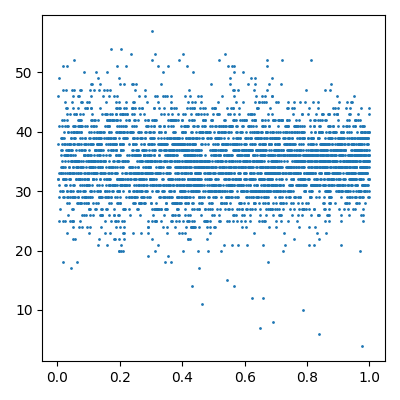
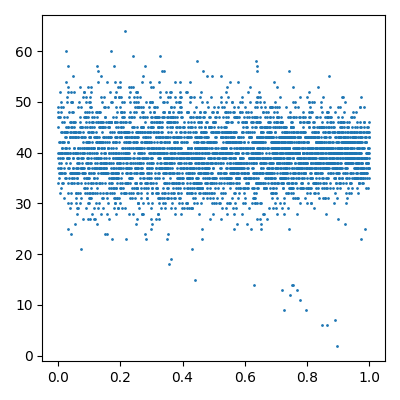
scale down recurrent cons more, fix memory leak, increase nums incoming cons per cell, broaden line attractor, and increase upper bound on silent cell FR

diff --git a/paper_figures_21_05_05/paper_figs_circa_21_10/multiple_parametric_21_09_28/single_cell_silent_dist_ordered_21_11_09/run.py b/paper_figures_21_05_05/paper_figs_circa_21_10/multiple_parametric_21_09_28/single_cell_silent_dist_ordered_21_11_09/run.py
@@ -14,6 +14,7 @@ from scipy.sparse import csc_matrix, csr_matrix, kron
 from functools import reduce, partial
 import argparse
 import time
+import tracemalloc
 
 from aux import *
 from disp import *
@@ -80,7 +81,7 @@ M = Generic(
     I_EXT_B=0,  # additional baseline current input
 
     # Connection probabilities
-    MEAN_N_CONS_PER_CELL=35,
+    MEAN_N_CONS_PER_CELL=40,
     SYN_PROP_DIST_EXP=args.synfire_prop_dist[0],
     CON_PROB_FF_CONST=1,
     CON_PROB_R=0.,
@@ -92,8 +93,8 @@ M = Generic(
     W_E_I_R_MAX=10e-5,
     W_I_E_R=0.32e-5,
     W_A=0,
-    W_E_E_R=0.26 * 0.004 * 1.3,
-    W_E_E_R_MAX=0.26 * 0.004 * 10 * 1.3,
+    W_E_E_R=0.26 * 0.004 * 1.0,
+    W_E_E_R_MAX=0.26 * 0.004 * 10 * 1.0,
 
     # Dropout params
     DROPOUT_MIN_IDX=0,
@@ -109,6 +110,7 @@ M = Generic(
     SINGLE_CELL_FR_SETPOINT_MIN=10,
     SINGLE_CELL_FR_SETPOINT_MIN_STD=2,
     SINGLE_CELL_LINE_ATTR=args.fr_single_line_attr[0],
+    SINGLE_CELL_LINE_ATTR_WIDTH=6,
     ETA=0.3,
     ALPHA_1=args.alpha_1[0], #3e-2
     ALPHA_2=args.alpha_2[0],
@@ -121,7 +123,7 @@ np.random.seed(S.RNG_SEED)
 
 M.CON_PROBS_FF = np.exp(-1 * np.arange(M.N_EXC / M.PROJECTION_NUM) / M.CON_PROB_FF_CONST)
 
-M.W_U_E = M.W_E_E_R / M.PROJECTION_NUM * 3
+M.W_U_E = M.W_E_E_R / M.PROJECTION_NUM * 3.5
 
 M.CUT_IDX_TAU_PAIR = int(2 * M.TAU_STDP_PAIR / S.DT)
 M.KERNEL_PAIR = np.exp(-np.arange(M.CUT_IDX_TAU_PAIR) * S.DT / M.TAU_STDP_PAIR).astype(float)
@@ -168,8 +170,11 @@ def generate_exc_ff_chain(m):
         gamma = m.MEAN_N_CONS_PER_CELL * synfire_proportion / (m.PROJECTION_NUM * (1 - np.exp(-10/m.CON_PROB_FF_CONST))/(1 - np.exp(-1/m.CON_PROB_FF_CONST)))
 
         ### Calculate scaling coef for synapses based on 'synfire_proportion'
-        min_weight_scaling_coef = 0.3
+        min_weight_scaling_coef = 0.05
         weight_scaling_coef = (1 - min_weight_scaling_coef) * synfire_proportion + min_weight_scaling_coef
+
+        # if synfire_proportion > 0.98:
+        #     print(synfire_proportion, gamma * M.CON_PROBS_FF[0])
 
         for i, l_idx in enumerate(reversed(range(layer_idx))):
             cons_for_cell[0, (l_idx * m.PROJECTION_NUM) : ((l_idx + 1) * m.PROJECTION_NUM)] = gaussian_if_under_val(gamma * M.CON_PROBS_FF[i], (1, m.PROJECTION_NUM), weight_scaling_coef * w, 0.2 * w)
@@ -255,7 +260,7 @@ def run_test(m, output_dir_name, show_connectivity=True, repeats=1, n_show_only=
 
         np.fill_diagonal(w_e_e_r, 0.)
 
-        min_weight_scaling_coef = 0.3
+        min_weight_scaling_coef = 0.05
         weight_scaling_coefs = (1 - min_weight_scaling_coef) * syn_props + min_weight_scaling_coef
 
         e_i_r = np.stack([gaussian_if_under_val(m.E_I_CON_PROB, (m.N_INH,), w_scale * m.W_E_I_R, 0.2 * m.W_E_I_R) for w_scale in weight_scaling_coefs]).T
@@ -302,8 +307,6 @@ def run_test(m, output_dir_name, show_connectivity=True, repeats=1, n_show_only=
     # run simulation for same set of parameters
     for rp_idx in range(repeats):
         show_trial = (type(n_show_only) is int and rp_idx < n_show_only)
-
-        rsps_for_trial = []
         
         for d_idx, dropout in enumerate(dropouts):
 
@@ -319,6 +322,11 @@ def run_test(m, output_dir_name, show_connectivity=True, repeats=1, n_show_only=
             i_cell_sample_idxs = np.sort((np.random.rand(10) * m.N_INH + m.N_EXC).astype(int))
 
             w_r_copy = copy(w_r)
+
+            # tracemalloc.start()
+
+            # snapshot = None
+            # last_snapshot = tracemalloc.take_snapshot()
 
             for i_e in range(epochs):
 
@@ -400,8 +408,8 @@ def run_test(m, output_dir_name, show_connectivity=True, repeats=1, n_show_only=
                 # ax.plot(b, f/2, color='black', lw=2)
                 # fig.savefig('inh_volt_dists.png')
 
-                sampled_e_cell_rasters.append(rsp.spks[int((m.INPUT_DELAY + 20e-3)/S.DT):, e_cell_sample_idxs])
-                sampled_i_cell_rasters.append(rsp.spks[int((m.INPUT_DELAY + 20e-3)/S.DT):, i_cell_sample_idxs])
+                sampled_e_cell_rasters.append(rsp.spks[int((m.INPUT_DELAY)/S.DT):, e_cell_sample_idxs])
+                sampled_i_cell_rasters.append(rsp.spks[int((m.INPUT_DELAY)/S.DT):, i_cell_sample_idxs])
 
                 sampled_trial_number = 10
                 if i_e % sampled_trial_number == 0 and i_e != 0:
@@ -567,6 +575,7 @@ def run_test(m, output_dir_name, show_connectivity=True, repeats=1, n_show_only=
                             e_cell_fr_setpoints += np.sum(spks_for_e_cells > 0, axis=0)
                     elif i_e == m.E_SINGLE_FR_TRIALS[1]:
                         e_cell_fr_setpoints = e_cell_fr_setpoints / (m.E_SINGLE_FR_TRIALS[1] - m.E_SINGLE_FR_TRIALS[0])
+                        e_cell_fr_setpoints[e_cell_fr_setpoints < (m.SINGLE_CELL_LINE_ATTR_WIDTH/2) ] = m.SINGLE_CELL_LINE_ATTR_WIDTH/2
                         where_fr_is_0 = (e_cell_fr_setpoints == 0)
                         if m.SINGLE_CELL_LINE_ATTR == 2:
                             e_cell_fr_setpoints[where_fr_is_0] = np.random.normal   (
@@ -577,7 +586,7 @@ def run_test(m, output_dir_name, show_connectivity=True, repeats=1, n_show_only=
                     elif i_e > m.E_SINGLE_FR_TRIALS[1]:
                         e_diffs = e_cell_fr_setpoints - np.sum(spks_for_e_cells > 0, axis=0)
                         if m.SINGLE_CELL_LINE_ATTR == 1:
-                            e_diffs[(e_diffs <= 2) & (e_diffs >= -2)] = 0
+                            e_diffs[(e_diffs <= (m.SINGLE_CELL_LINE_ATTR_WIDTH/2)) & (e_diffs >= (-1 * m.SINGLE_CELL_LINE_ATTR_WIDTH/2))] = 0
                         elif m.SINGLE_CELL_LINE_ATTR == 2:
                             e_diffs[e_diffs > 0] = 0
                         fr_update_e = e_diffs.reshape(e_diffs.shape[0], 1) * np.ones((m.N_EXC + m.N_SILENT, m.N_EXC + m.N_SILENT)).astype(float)
@@ -698,6 +707,15 @@ def run_test(m, output_dir_name, show_connectivity=True, repeats=1, n_show_only=
                 secs_per_cycle = f'{end - start}'
                 secs_per_cycle = secs_per_cycle[:secs_per_cycle.find('.') + 2]
                 print(f'{secs_per_cycle} s')
+
+                plt.close('all')
+
+                # snapshot = tracemalloc.take_snapshot()
+                # if last_snapshot is not None:
+                #     top_stats = snapshot.compare_to(last_snapshot, 'lineno')
+                #     print("[ Top 3 differences ]")
+                #     for stat in top_stats[:3]:
+                #         print(stat)
 
 
 

diff --git a/paper_figures_21_05_05/paper_figs_circa_21_10/multiple_parametric_21_09_28/single_cell_silent_dist_ordered_21_11_09/submit_pop_single_silent.py b/paper_figures_21_05_05/paper_figs_circa_21_10/multiple_parametric_21_09_28/single_cell_silent_dist_ordered_21_11_09/submit_pop_single_silent.py
@@ -72,15 +72,15 @@ def pad_zeros(to_pad, length):
 		padded = '0' + padded
 	return padded
 
-batch_size = 3
+batch_size = 10
 
 params = OrderedDict()
-params['SEED'] = [str(i) for i in range(2031, 2061)]
+params['SEED'] = [str(i) for i in range(2061, 2091)]
 params['ALPHA_1'] = [ str(3e-2) ]
-params['ALPHA_2'] = [ str(0.5e-2) ]
-params['GAMMA'] = [ str(0.1e-4) ]
+params['ALPHA_2'] = [ str(0.5e-2), str(2e-2) ]
+params['GAMMA'] = [ str(0.1e-4), str(0.3e-4) ]
 params['SYN_PROP_DIST'] = [ str(0.9) ]
-params['DROP_SEV'] = [str(0.35), str(0.5)]
+params['DROP_SEV'] = [str(0.5)]
 # params['ALPHA_1'] = ((1e-2, 5e-2), 5)
 # params['ALPHA_2'] = ((1e-2, 5e-2), 5)
 # params['GAMMA'] = ((0, 2e-4), 5)

diff --git a/paper_figures_21_05_05/paper_figs_circa_21_10/multiple_parametric_21_09_28/single_cell_silent_dist_ordered_21_11_09/submit_pop_single_silent_one_sided.py b/paper_figures_21_05_05/paper_figs_circa_21_10/multiple_parametric_21_09_28/single_cell_silent_dist_ordered_21_11_09/submit_pop_single_silent_one_sided.py
@@ -72,15 +72,15 @@ def pad_zeros(to_pad, length):
 		padded = '0' + padded
 	return padded
 
-batch_size = 3
+batch_size = 10
 
 params = OrderedDict()
-params['SEED'] = [str(i) for i in range(2031, 2061)]
+params['SEED'] = [str(i) for i in range(2061, 2091)]
 params['ALPHA_1'] = [ str(3e-2) ]
-params['ALPHA_2'] = [ str(0.5e-2) ]
+params['ALPHA_2'] = [ str(0.5e-2), str(2e-2)  ]
 params['GAMMA'] = [ str(0.1e-4), str(0.3e-4) ]
 params['SYN_PROP_DIST'] = [ str(0.9) ]
-params['DROP_SEV'] = [str(0.35), str(0.5)]
+params['DROP_SEV'] = [str(0.5)]
 # params['ALPHA_1'] = ((1e-2, 5e-2), 5)
 # params['ALPHA_2'] = ((1e-2, 5e-2), 5)
 # params['GAMMA'] = ((0, 2e-4), 5)

diff --git a/paper_figures_21_05_05/paper_figs_circa_21_10/multiple_parametric_21_09_28/single_cell_silent_dist_ordered_21_11_09/submit_single_silent_only_wide_attr.py b/paper_figures_21_05_05/paper_figs_circa_21_10/multiple_parametric_21_09_28/single_cell_silent_dist_ordered_21_11_09/submit_single_silent_only_wide_attr.py
@@ -72,14 +72,14 @@ def pad_zeros(to_pad, length):
 		padded = '0' + padded
 	return padded
 
-batch_size = 3
+batch_size = 10
 
 params = OrderedDict()
-params['SEED'] = [str(i) for i in range(2031, 2061)]
+params['SEED'] = [str(i) for i in range(2061, 2091)]
 params['ALPHA_1'] = [ str(3e-2) ]
-params['ALPHA_2'] = [ str(0.5e-2) ]
+params['ALPHA_2'] = [ str(0.5e-2), str(2e-2)  ]
 params['SYN_PROP_DIST'] = [ str(0.9) ]
-params['DROP_SEV'] = [str(0.35), str(0.5)]
+params['DROP_SEV'] = [str(0.5)]
 
 # for key in params.keys():
 # 	if key == 'SEED':

diff --git a/paper_figures_21_05_05/paper_figs_circa_21_10/multiple_parametric_21_09_28/single_cell_silent_dist_ordered_21_11_09/submit_single_silent_only.py b/paper_figures_21_05_05/paper_figs_circa_21_10/multiple_parametric_21_09_28/single_cell_silent_dist_ordered_21_11_09/submit_single_silent_only.py
@@ -72,14 +72,14 @@ def pad_zeros(to_pad, length):
 		padded = '0' + padded
 	return padded
 
-batch_size = 3
+batch_size = 10
 
 params = OrderedDict()
-params['SEED'] = [str(i) for i in range(2031, 2061)]
+params['SEED'] = [str(i) for i in range(2061, 2091)]
 params['ALPHA_1'] = [ str(3e-2) ]
-params['ALPHA_2'] = [ str(0.5e-2) ]
+params['ALPHA_2'] = [ str(0.5e-2), str(2e-2) ]
 params['SYN_PROP_DIST'] = [ str(0.9) ]
-params['DROP_SEV'] = [str(0.35), str(0.5)]
+params['DROP_SEV'] = [str(0.5)]
 
 # for key in params.keys():
 # 	if key == 'SEED':
